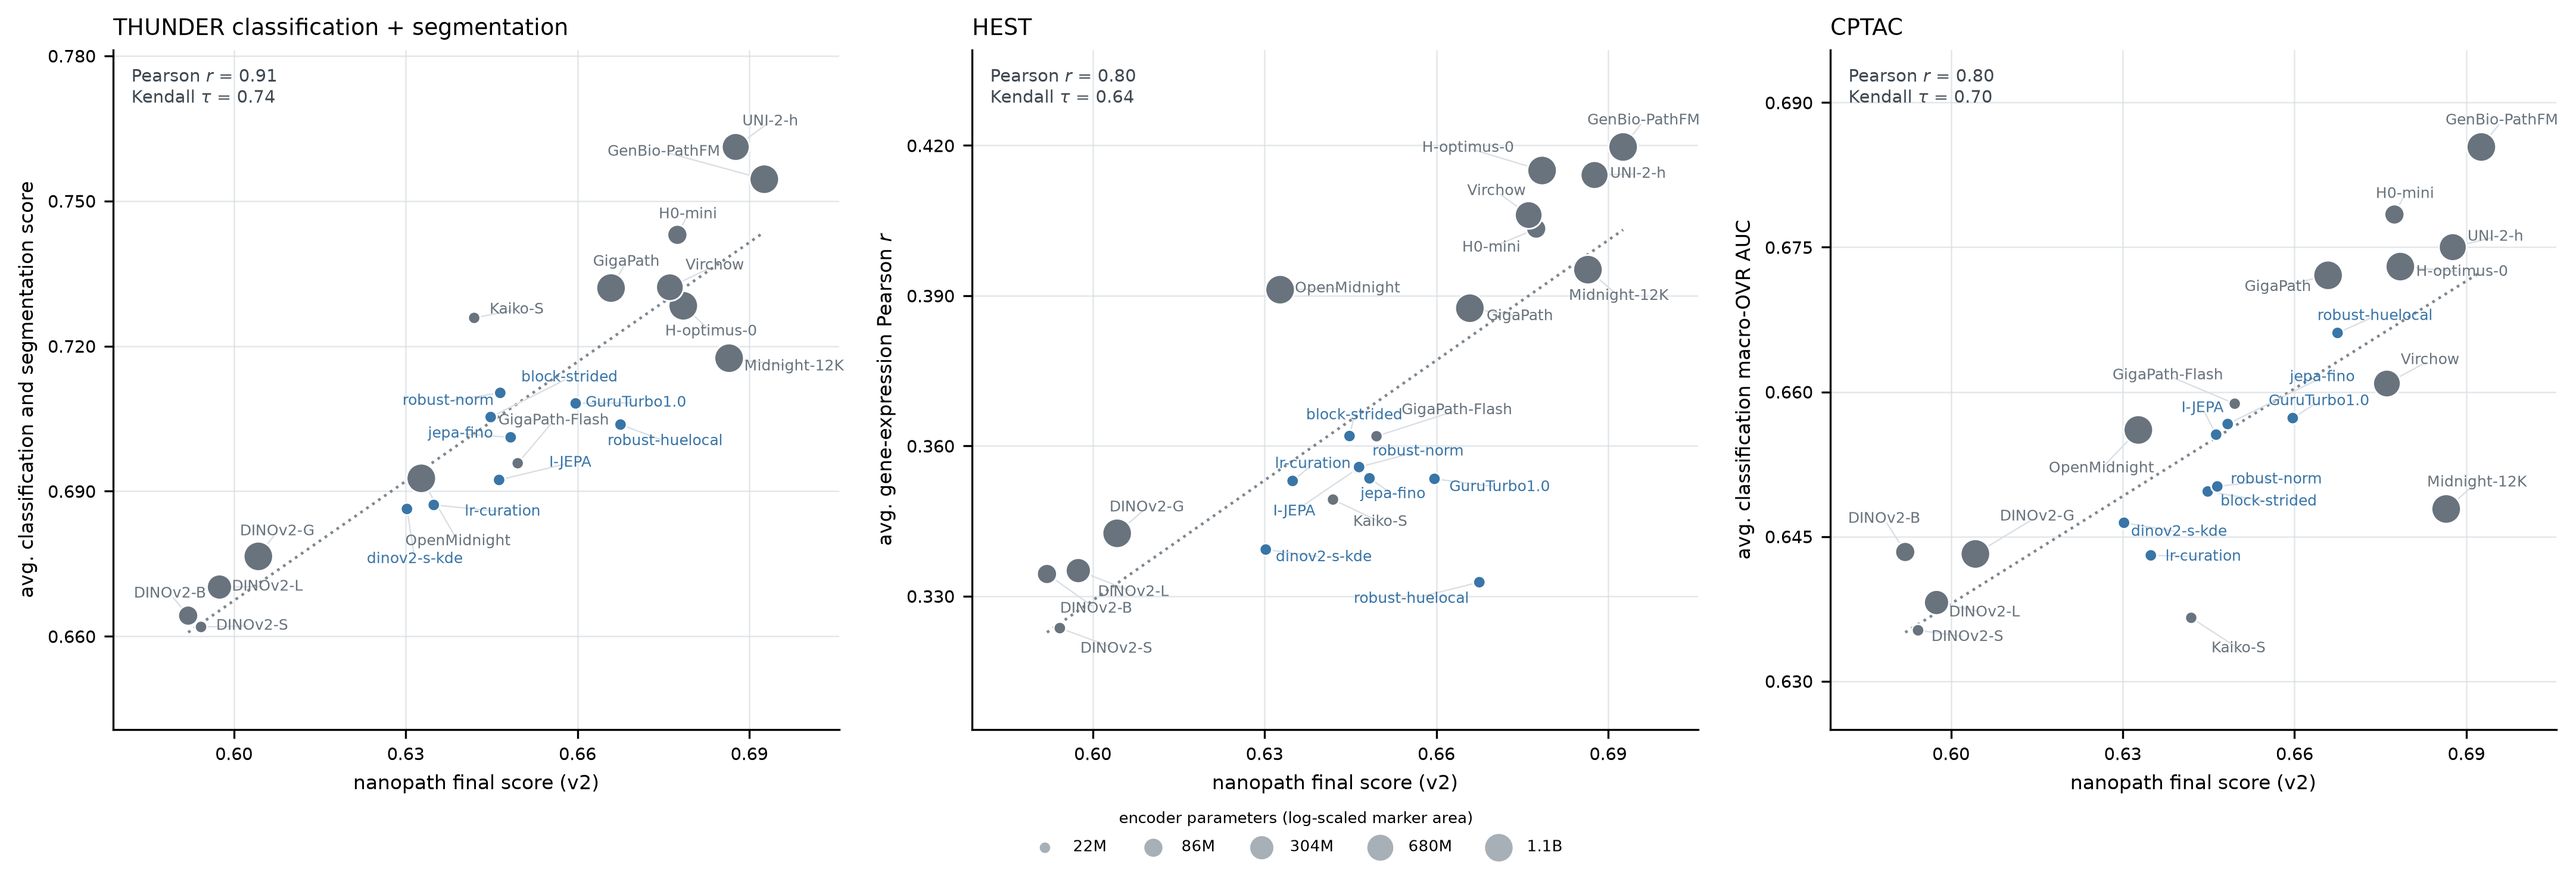
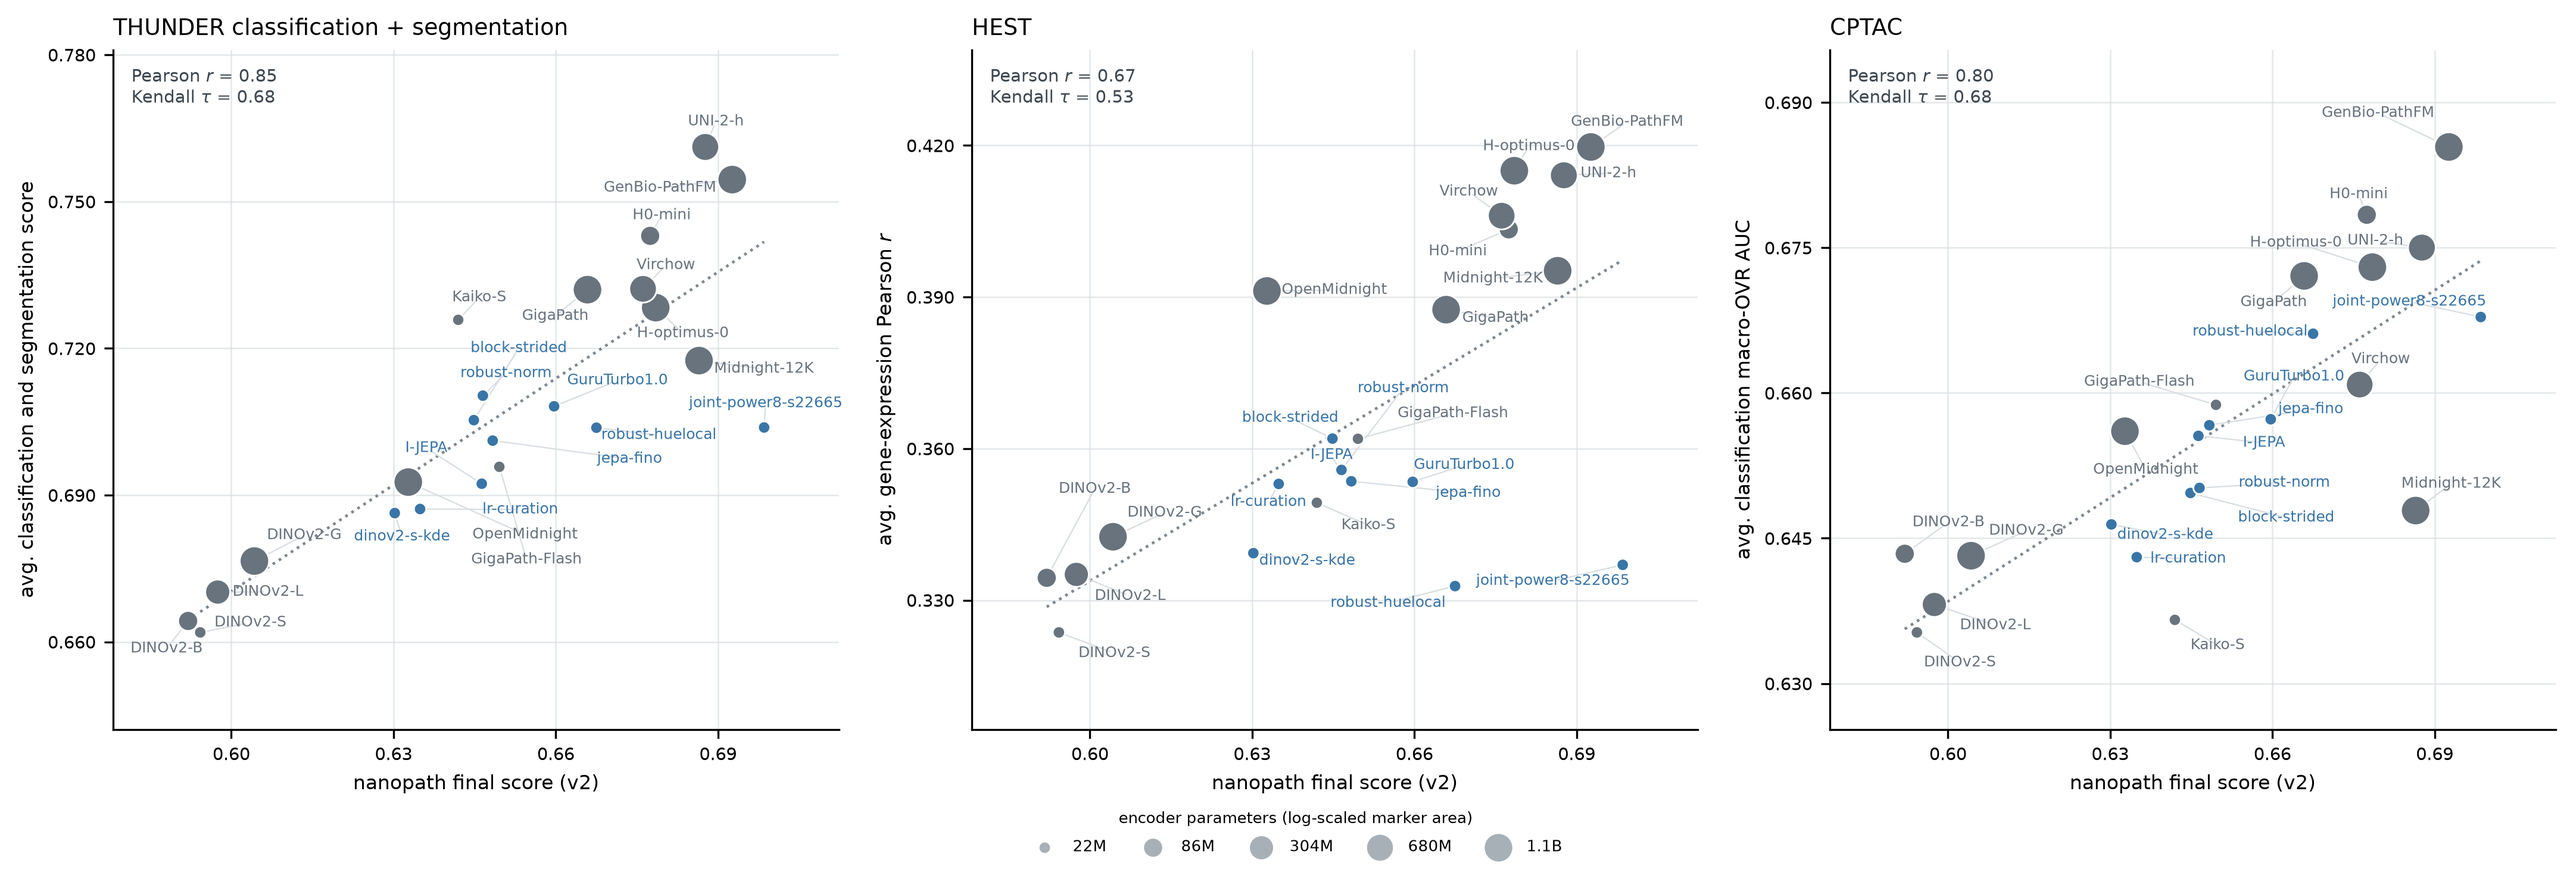
Update evaluation figures with joint-power8-s22665

diff --git a/benchmarking/validation.md b/benchmarking/validation.md
@@ -172,22 +172,23 @@ Across those 12 pre-existing composite rows, the final score never places a
 studied nanopath checkpoint above GigaPath or H-Optimus-0 when the composite
 places it below that baseline.
 
-An expanded 22-model table adds H0-mini, DINOv2-S/B/L/G, Kaiko-S/16, and
+An expanded 23-model table adds H0-mini, DINOv2-S/B/L/G, Kaiko-S/16, and
 GigaPath-Flash, plus the validated GuruTurbo1.0 (seed 3539) and robust-huelocal
-(seed 7974) medians:
+(seed 7974) medians, and the unvalidated
+[joint-power8-s22665](https://labless.dev/runs/run_sub_8ffed95604) discovery checkpoint:
 
-| Comparison, 22 models | Pearson | Kendall |
+| Comparison, 23 models | Pearson | Kendall |
 |---|---:|---:|
-| Classification / THUNDER | 0.986 | 0.948 |
-| Segmentation / THUNDER | 0.869 | 0.735 |
-| Final score / THUNDER classification + segmentation | 0.907 | 0.740 |
-| Final score / HEST | 0.801 | 0.636 |
-| Final score / CPTAC classification | 0.800 | 0.697 |
+| Classification / THUNDER | 0.985 | 0.953 |
+| Segmentation / THUNDER | 0.868 | 0.710 |
+| Final score / THUNDER classification + segmentation | 0.848 | 0.676 |
+| Final score / HEST | 0.670 | 0.526 |
+| Final score / CPTAC classification | 0.802 | 0.684 |
 
 The exact comparison input is
 [proxy-fidelity data](proxy_fidelity_v2.csv). Final scores use the assembled
 fixed result, including PanNuke and both SegPath tasks. THUNDER segmentation
-uses complete same-checkpoint results for all 22 models.
+uses complete same-checkpoint results for all 23 models.
 
 ## Random-feature null audit
 

diff --git a/benchmarking/README.md b/benchmarking/README.md
@@ -69,7 +69,7 @@ Encoder inference uses fp16 autocast and caches classification/slide embeddings 
 | [`surgen.json`](surgen.json) | SurGen fold-0 development-pool slide labels |
 | [`leopard_bcr.json`](leopard_bcr.json) | LEOPARD public-training cohort and fixed folds |
 | [`cptac_pda_os.json`](cptac_pda_os.json) | CPTAC-PDA fold-0 development-pool survival labels and fixed folds |
-| [Proxy-fidelity data](proxy_fidelity_v2.csv) | Frozen 13- and 20-model proxy/official comparison values |
+| [Proxy-fidelity data](proxy_fidelity_v2.csv) | Frozen proxy/official comparison values for 23 models |
 | [Random-feature audit](random_dinov2_s_v2.csv) | Ten-seed predictive and CRoMa audit |
 | [classification.md](classification.md) | Dataset provenance, sampling, head math, and THUNDER deviations |
 | [segmentation.md](segmentation.md) | Source boundary, decoder, loss, metric, and PanNuke caveat |
